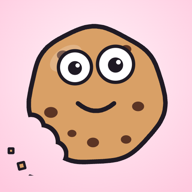
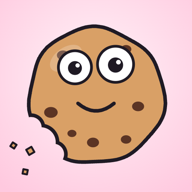
Obrysy postaviček o ~20 % tenčí (i ikona aplikace)

diff --git a/js/blob.js b/js/blob.js
@@ -3,8 +3,8 @@
 // viewBox 0 0 120 120. Vrstvy: za tělem (křídla) → tělo + vzor → oblečení → pusa → oči → brýle → klobouk → věci.
 
 const OB = '#1f1a24';
-const T = `stroke="${OB}" stroke-width="3" stroke-linejoin="round" stroke-linecap="round"`;
-const T2 = `stroke="${OB}" stroke-width="2.2" stroke-linejoin="round" stroke-linecap="round"`;
+const T = `stroke="${OB}" stroke-width="2.4" stroke-linejoin="round" stroke-linecap="round"`;
+const T2 = `stroke="${OB}" stroke-width="1.8" stroke-linejoin="round" stroke-linecap="round"`;
 // Obrys sušenky: kruh s nepravidelným, mírně zvlněným okrajem (jako upečená), střed 60/67.
 const CX = 60, CY = 67, R = 45;
 const TELO = Array.from({ length: 120 }, (_, i) => {
@@ -33,7 +33,7 @@ let n = 0;
 const KUZE = {
   pernik: { barva: '#b0703f', vzor: `<circle cx="60" cy="67" r="37" fill="none" stroke="#fff" stroke-width="3.5" stroke-dasharray="7 4" stroke-linecap="round"/>${[[30, 96], [90, 96], [60, 106]].map(([x, y]) => `<circle cx="${x}" cy="${y}" r="3" fill="#ff5b7a"/>`).join('')}` },
   oreo: { barva: '#3a2a2e', vzor: `<circle cx="60" cy="67" r="38" fill="none" stroke="#56423f" stroke-width="2"/>${Array.from({ length: 16 }, (_, i) => { const a = i / 16 * Math.PI * 2; return `<circle cx="${(60 + Math.cos(a) * 32).toFixed(1)}" cy="${(67 + Math.sin(a) * 32).toFixed(1)}" r="2.4" fill="#56423f"/>`; }).join('')}<path d="M0 90 H120 V97 H0z" fill="#fff8ec"/>` },
-  poleva: { barva: '#d9a066', vzor: `<path d="M0 0 H120 V52 q-6 0 -8 10 q-2 8 -6 0 q-4 -10 -12 -6 q-6 4 -8 16 q-3 8 -6 -2 q-2 -12 -12 -10 q-8 2 -10 12 q-3 6 -6 -4 q-4 -12 -14 -8 q-8 4 -10 0 q-4 -6 -8 -4 V0z" fill="#ff8fc0" stroke="#1f1a24" stroke-width="2.4" stroke-linejoin="round"/>${[[30, 38, '#ffd34d', 20], [48, 30, '#4dabf7', -30], [72, 32, '#8fd36b', 50], [88, 44, '#fff', -10], [40, 50, '#4dabf7', 70], [64, 48, '#ffd34d', -60], [80, 26, '#fff', 15]].map(([x, y, c, r]) => `<rect x="${x}" y="${y}" width="7" height="2.6" rx="1.3" fill="${c}" transform="rotate(${r} ${x} ${y})"/>`).join('')}` },
+  poleva: { barva: '#d9a066', vzor: `<path d="M0 0 H120 V52 q-6 0 -8 10 q-2 8 -6 0 q-4 -10 -12 -6 q-6 4 -8 16 q-3 8 -6 -2 q-2 -12 -12 -10 q-8 2 -10 12 q-3 6 -6 -4 q-4 -12 -14 -8 q-8 4 -10 0 q-4 -6 -8 -4 V0z" fill="#ff8fc0" stroke="#1f1a24" stroke-width="1.9" stroke-linejoin="round"/>${[[30, 38, '#ffd34d', 20], [48, 30, '#4dabf7', -30], [72, 32, '#8fd36b', 50], [88, 44, '#fff', -10], [40, 50, '#4dabf7', 70], [64, 48, '#ffd34d', -60], [80, 26, '#fff', 15]].map(([x, y, c, r]) => `<rect x="${x}" y="${y}" width="7" height="2.6" rx="1.3" fill="${c}" transform="rotate(${r} ${x} ${y})"/>`).join('')}` },
   posyp: { barva: '#f3dcb0', vzor: Array.from({ length: 30 }, (_, i) => `<rect x="${(i * 37) % 96 + 12}" y="${(i * 53) % 86 + 24}" width="6" height="2.4" rx="1.2" fill="${['#ff5b7a', '#4dabf7', '#ffd34d', '#8fd36b', '#b494f0'][i % 5]}" transform="rotate(${(i * 67) % 180} ${(i * 37) % 96 + 12} ${(i * 53) % 86 + 24})"/>`).join('') },
   maslova: { barva: '#f3cf8e', vzor: [[38, 40, 4], [80, 36, 3.5], [30, 78, 4.5], [88, 74, 4], [58, 98, 4], [44, 92, 3], [80, 96, 3.5]].map(([x, y, r]) => `<ellipse cx="${x}" cy="${y}" rx="${r}" ry="${r * .8}" fill="#8a5a3c"/>`).join('') },
   cokoladova: { barva: '#7a4a2e', vzor: [[38, 40, 4], [80, 36, 3.5], [30, 78, 4.5], [88, 74, 4], [58, 98, 4], [44, 92, 3], [80, 96, 3.5]].map(([x, y, r]) => `<ellipse cx="${x}" cy="${y}" rx="${r}" ry="${r * .8}" fill="#fff4e0"/>`).join('') },
@@ -74,7 +74,7 @@ const OCI = {
   ospale: `<circle cx="46" cy="48" r="11" fill="#fff" ${T2}/><circle cx="73" cy="46" r="12" fill="#fff" ${T2}/><path d="M35 46 a11 11 0 0 1 22 0z M61 44 a12 12 0 0 1 24 0z" fill="currentColor" ${T2}/><circle cx="47" cy="51" r="3.5" fill="${OB}"/><circle cx="74" cy="50" r="3.8" fill="${OB}"/>`,
   kyklop: oko(60, 46, 15, 0, .5, 'pv-zl'),
   hvezdy: [[46, 48, 11], [73, 46, 12]].map(([x, y, r]) => `<circle cx="${x}" cy="${y}" r="${r}" fill="#fff" ${T2}/><path d="M${x} ${y - 6} l1.8 4 l4.2 .4 l-3.2 2.8 l1 4.2 l-3.8 -2.2 l-3.8 2.2 l1 -4.2 l-3.2 -2.8 l4.2 -.4z" fill="#ffc21a" stroke="${OB}" stroke-width="1"/>`).join(''),
-  spiralky: [[46, 48, 11], [73, 46, 12]].map(([x, y, r]) => `<circle cx="${x}" cy="${y}" r="${r}" fill="#fff" ${T2}/><path d="M${x} ${y} m0 -1.5 a1.5 1.5 0 1 1 -1.5 1.5 a3.5 3.5 0 1 1 3.5 3.5 a5.5 5.5 0 1 1 5.5 -5.5 a7.5 7.5 0 0 1 -7.5 7.5" fill="none" stroke="${OB}" stroke-width="1.8" stroke-linecap="round"/>`).join(''),
+  spiralky: [[46, 48, 11], [73, 46, 12]].map(([x, y, r]) => `<circle cx="${x}" cy="${y}" r="${r}" fill="#fff" ${T2}/><path d="M${x} ${y} m0 -1.5 a1.5 1.5 0 1 1 -1.5 1.5 a3.5 3.5 0 1 1 3.5 3.5 a5.5 5.5 0 1 1 5.5 -5.5 a7.5 7.5 0 0 1 -7.5 7.5" fill="none" stroke="${OB}" stroke-width="1.5" stroke-linecap="round"/>`).join(''),
   zamilovane: [[46, 48, 11], [73, 46, 12]].map(([x, y, r]) => `<circle cx="${x}" cy="${y}" r="${r}" fill="#fff" ${T2}/><path d="M${x} ${y + 5} l-5 -5 c-3 -3 1 -7 5 -3 c4 -4 8 0 5 3z" fill="#ff3b6b"/>`).join(''),
 };
 
@@ -84,7 +84,7 @@ const PUSY = {
   otevrena: `<path d="M44 72 q16 -6 32 0 q-4 18 -16 20 q-12 -2 -16 -20z" fill="#7a2e22" ${T2}/>`,
   jazyk: `<path d="M48 72 q12 8 24 0" fill="none" ${T}/><path d="M56 76 q4 10 8 0" fill="#ff6f8f" ${T2}/>`,
   zuby: `<path d="M44 70 h32 q-2 12 -16 12 q-14 0 -16 -12z" fill="#fff" ${T2}/><path d="M52 70 v6 M60 70 v7 M68 70 v6" stroke="${OB}" stroke-width="1.6"/>`,
-  vampir: `<path d="M46 70 q14 10 28 0" fill="none" ${T}/><path d="M50 72 l2.5 7 l2.5 -5.4z M65 74 l2.5 5.4 l2.5 -7z" fill="#fff" stroke="${OB}" stroke-width="1.6" stroke-linejoin="round"/>`,
+  vampir: `<path d="M46 70 q14 10 28 0" fill="none" ${T}/><path d="M50 72 l2.5 7 l2.5 -5.4z M65 74 l2.5 5.4 l2.5 -7z" fill="#fff" stroke="${OB}" stroke-width="1.3" stroke-linejoin="round"/>`,
   zobak: `<path d="M50 66 l10 8 l10 -8z" fill="#ffae2b" ${T2}/>`,
 };
 const KNIR = `<path d="M60 66 q-8 -6 -16 0 q-6 4 -12 -2 q4 10 14 8 q8 -2 14 -4 q6 2 14 4 q10 2 14 -8 q-6 6 -12 2 q-8 -6 -16 0z" fill="${OB}"/>`;
@@ -125,7 +125,7 @@ const MAZLICCI = {
 const CEPICE = 'M14 64 C10 34 30 16 60 16 C90 16 110 34 106 64 C104 50 98 40 90 34 C82 38 72 38 64 30 C58 36 46 38 38 34 C32 38 24 44 20 52 C17 56 15 60 14 64Z';
 const BODLINY = 'M14 64 C10 40 20 26 30 20 L26 6 L40 15 L42 0 L54 12 L62 -3 L68 12 L80 2 L82 17 L96 10 L92 26 C104 34 110 48 106 64 C102 48 96 40 88 36 C80 40 70 38 62 32 C54 38 44 38 36 34 C28 40 20 50 14 64Z';
 const kudrny = c => { const b = Array.from({ length: 11 }, (_, i) => { const a = Math.PI * (1.05 + i * .09); return [60 + Math.cos(a) * 44, 58 + Math.sin(a) * 40]; });
-  return b.map(([x, y]) => `<circle cx="${x.toFixed(1)}" cy="${y.toFixed(1)}" r="11" fill="${c}" stroke="${OB}" stroke-width="6"/>`).join('') + b.map(([x, y]) => `<circle cx="${x.toFixed(1)}" cy="${y.toFixed(1)}" r="11" fill="${c}"/>`).join(''); };
+  return b.map(([x, y]) => `<circle cx="${x.toFixed(1)}" cy="${y.toFixed(1)}" r="11" fill="${c}" stroke="${OB}" stroke-width="4.8"/>`).join('') + b.map(([x, y]) => `<circle cx="${x.toFixed(1)}" cy="${y.toFixed(1)}" r="11" fill="${c}"/>`).join(''); };
 const VLASY = {
   ofina: { pred: c => `<path d="${CEPICE}" fill="${c}" ${T}/>`, za: c => `<path d="M10 70 C4 30 30 12 60 12 C90 12 116 30 110 70 L112 92 C100 96 92 92 90 86 L30 86 C28 92 20 96 8 92z" fill="${c}" ${T}/>` },
   dlouhe: { pred: c => `<path d="${CEPICE}" fill="${c}" ${T}/>`, za: c => `<path d="M12 60 C6 26 32 12 60 12 C88 12 114 26 108 60 C112 84 116 104 104 116 C98 110 96 104 92 100 L28 100 C24 104 22 110 16 116 C4 104 8 84 12 60z" fill="${c}" ${T}/>` },
@@ -141,7 +141,7 @@ const OCI_POZ = [[46, 48, 11], [73, 46, 12]];
 const RASY = OCI_POZ.map(([x, y, r]) => `<path d="M${x - r * .8} ${y - r * .55} l-4 -3 M${x - r * .35} ${y - r * .92} l-2 -4.5 M${x + r * .2} ${y - r} l0 -4.5" fill="none" ${T2}/>`).join('');
 const TVARE = `<ellipse cx="31" cy="66" rx="6" ry="4" fill="#ff7aa8" opacity=".55"/><ellipse cx="90" cy="64" rx="6" ry="4" fill="#ff7aa8" opacity=".55"/>`;
 const PIHY = [[29, 62], [34, 66], [27, 68], [87, 60], [92, 64], [86, 66]].map(([x, y]) => `<circle cx="${x}" cy="${y}" r="1.3" fill="#7a4a1e"/>`).join('');
-const koncetina = (d, w = 8) => `<path d="${d}" fill="none" stroke="${OB}" stroke-width="${w + 5}" stroke-linecap="round"/><path d="${d}" fill="none" stroke="currentColor" stroke-width="${w}" stroke-linecap="round"/>`;
+const koncetina = (d, w = 8) => `<path d="${d}" fill="none" stroke="${OB}" stroke-width="${w + 4}" stroke-linecap="round"/><path d="${d}" fill="none" stroke="currentColor" stroke-width="${w}" stroke-linecap="round"/>`;
 // Mává levou rukou – pravý horní roh patří ukousnutí.
 const ruce = (mavani) => koncetina('M99 88 Q110 94 113 105') + `<circle cx="113" cy="107" r="6.5" fill="currentColor" ${T2}/>`
   + (mavani ? `<g class="pv-mava">${koncetina('M19 76 Q8 66 6 52')}<circle cx="6" cy="50" r="6.5" fill="currentColor" ${T2}/></g>` : koncetina('M19 78 Q8 86 6 98') + `<circle cx="6" cy="100" r="6.5" fill="currentColor" ${T2}/>`);
@@ -175,9 +175,9 @@ export function susenkaObsah(v) {
       ${predVlasy}
     </g>
     <!-- obrys ukousnutí pod ručičkama, jinak přes ně přejede -->
-    <g clip-path="url(#${id}k)"><g mask="url(#${id}v)">${KOUS.map(([x, y, r]) => `<circle cx="${x}" cy="${y}" r="${r}" fill="none" stroke="${OB}" stroke-width="6"/>`).join('')}</g></g>
+    <g clip-path="url(#${id}k)"><g mask="url(#${id}v)">${KOUS.map(([x, y, r]) => `<circle cx="${x}" cy="${y}" r="${r}" fill="none" stroke="${OB}" stroke-width="4.8"/>`).join('')}</g></g>
     ${tela ? `<g class="pv-ruce">${ruce(v.mavani !== false)}</g>` : ''}
-    <g fill="currentColor" stroke="${OB}" stroke-width="1.6" stroke-linejoin="round">${drobky(ki)}</g>
+    <g fill="currentColor" stroke="${OB}" stroke-width="1.3" stroke-linejoin="round">${drobky(ki)}</g>
     ${v.rod === 'z' ? TVARE : ''}${v.pihy ? PIHY : ''}
     <g class="pv-pusa">${pusa}</g>
     <g class="pv-oci">${OCI[v.oci] || OCI.koukaci}${v.rod === 'z' && v.oci !== 'kyklop' ? RASY : ''}</g>

diff --git a/sw.js b/sw.js
@@ -1,7 +1,7 @@
 // Offline režim. Strategie „nejdřív síť“: s internetem se vždy načte aktuální verze všech souborů
 // najednou (jinak by se po aktualizaci smíchaly nové a staré moduly), mezipaměť je jen záloha.
 // Po změně souborů zvyš CACHE.
-const CACHE = 'biscuit-v42';
+const CACHE = 'biscuit-v43';
 const SHELL = ['./', 'index.html', 'styles.css', 'manifest.webmanifest',
   'js/app.js', 'js/data.js', 'js/store.js', 'js/speech.js', 'js/cas.js', 'js/lekce.js', 'js/hra.js',
   'js/odznaky.js', 'js/postavicka.js', 'js/blob.js', 'js/ikony.js', 'js/svety.js', 'js/hra-susenky.js', 'js/obrazky.js', 'js/papir.js', 'js/online.js', 'js/firebase-config.js', 'js/maskot.js', 'js/hlasky.js', 'js/ui.js', 'icons/icon-180.png', 'icons/icon-192.png'];
